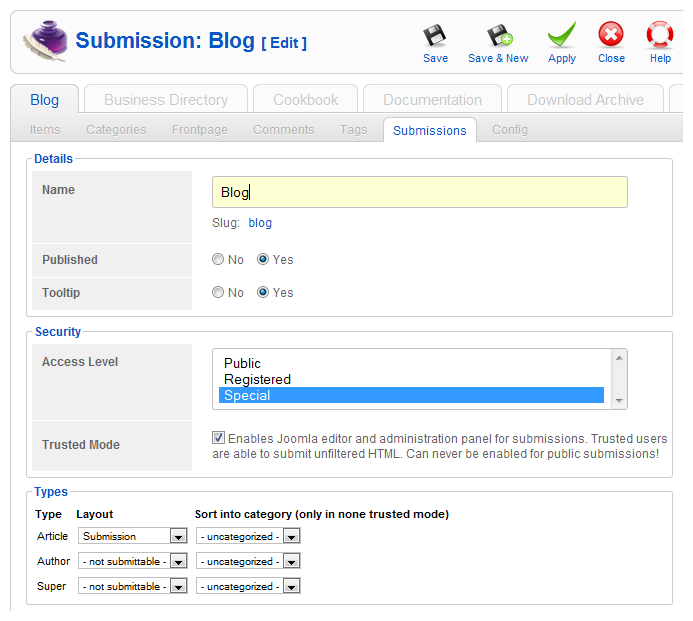
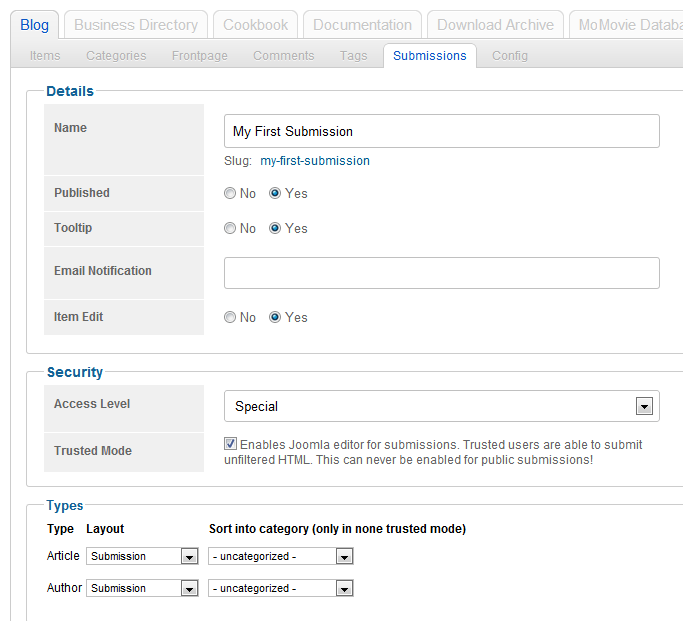
added docs for item edit submission

diff --git a/docs/Zoo/03 Advanced/04 Set Up Frontend Submission.html b/docs/Zoo/03 Advanced/04 Set Up Frontend Submission.html
@@ -11,10 +11,9 @@
 
 <ul class="bullet">
 	<li>Assign submittable elements to the <em>submission</em> layout.</li>
-	<li>Create a submission in the ZOO administration of your application instance</li>
-	<li>Create a menu item of the ZOO &raquo; Submission type</li>
+	<li>Create a submission in the ZOO administration of your application instance.</li>
+	<li>Create a menu item of the ZOO &raquo; Submission type.</li>
 </ul>
-
 
 <h2>Getting into detail</h2>
 
@@ -59,3 +58,20 @@
 <h2>The My Submissions view</h2>
 
 <p>Now it would nice if your authors there able to edit their blog posts, right? That's easily accomplished too. Create another menu item, but this time we'll choose ZOO &raquo; Submission / Mysubmissions. Here you'll have to select your blog application instance again and also choose your submission again. Now you have created created a link to an overview, where your authors can review and edit their submission. Nice.</p>
+
+<h1 class="title">Set up Item Edit Submission</h1>
+
+<p>Setting up a submission as <em>Item Edit Submission</em> basically works the same as setting up the Frontend Submission above.</p>
+
+<p>There are only three steps needed to accomplish this task:</p>
+
+<ul class="bullet">
+	<li>Follow Step 1 from above.</li>
+	<li>Follow Step 2 from above. Please enable the "Item Edit" setting. This will make this submission the <em>Item Edit</em> submission</li>
+	<li>{doc: assign-elements-to-layout-positions text: Assign the <em>Item Edit</em> element to a layout of your choice}.</li>
+</ul>
+
+<div class="box-warning">Please make sure to set the correct <em>Access level</em>. All users assigned to that Access level will be able to edit items.</div>
+
+<p>There can only be one "Item Edit" Submission in your app instance.</p>
+
